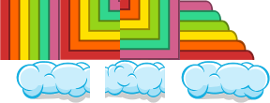
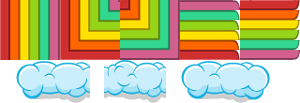
Tiles rendering is improved

diff --git a/source/backgrounds/TileBackground.js b/source/backgrounds/TileBackground.js
@@ -19,35 +19,37 @@ export default class TileBackground extends Background {
     constructor (options) {
         super(options);
         const {images, manager} = this;
-        this.tiles = polarizeTileMatrix(options.tiles);
 
+        this.tiles = polarizeTileMatrix(options.tiles);
         this.sprite = new Sprite(images.tile, manager.getSprite('Tile'));
-        this._setFrame('cloud-edge-flipped', this._transformFrame('cloud-edge', {
+        this.cloudRenderer = options.cloudRenderer;
+
+        this._setFrame('cloud-edge-right', this._transformFrame('cloud-edge-left', {
             scale: [-1, 1]
         }, {}, 90, 43));
         this._setFrame('0', this.sprite.frames.get('cloud-center'));
-        this._setFrame('1', this._transformFrame('tile-corner', {
+        this._setFrame('1', this._transformFrame('tile-corner-left', {
             rotate: [0]
         }));
-        this._setFrame('2', this._transformFrame('tile-corner', {
+        this._setFrame('2', this._transformFrame('tile-corner-left', {
             rotate: [Math.PI / 2]
         }));
-        this._setFrame('3', this._transformFrame('tile-corner', {
+        this._setFrame('3', this._transformFrame('tile-corner-left', {
             rotate: [Math.PI]
         }));
-        this._setFrame('4', this._transformFrame('tile-corner', {
+        this._setFrame('4', this._transformFrame('tile-corner-left', {
             rotate: [-Math.PI / 2]
         }));
-        this._setFrame('1f', this._transformFrame('tile-corner-flipped', {
+        this._setFrame('1f', this._transformFrame('tile-corner-right', {
             scale: [1, 1]
         }));
-        this._setFrame('2f', this._transformFrame('tile-corner-flipped', {
+        this._setFrame('2f', this._transformFrame('tile-corner-right', {
             scale: [-1, 1]
         }));
-        this._setFrame('3f', this._transformFrame('tile-corner-flipped', {
+        this._setFrame('3f', this._transformFrame('tile-corner-right', {
             scale: [-1, -1]
         }));
-        this._setFrame('4f', this._transformFrame('tile-corner-flipped', {
+        this._setFrame('4f', this._transformFrame('tile-corner-right', {
             scale: [-1, 1]
         }));
         this._setFrame('59', this._transformFrame('tile-pipe', {
@@ -60,17 +62,17 @@ export default class TileBackground extends Background {
         }, {
             alphaGradient: true
         }));
-        this._setFrame('6', this._transformFrame('tile-edge', {
+        this._setFrame('6', this._transformFrame('tile-edge-left', {
             scale: [-1, 1]
         }));
-        this._setFrame('7', this._transformFrame('tile-edge', {
+        this._setFrame('7', this._transformFrame('tile-edge-left', {
             scale: [1, 1]
         }));
-        this._setFrame('6f', this._transformFrame('tile-edge', {
-            scale: [-1, -1]
+        this._setFrame('6f', this._transformFrame('tile-edge-right', {
+            scale: [-1, 1]
         }));
-        this._setFrame('7f', this._transformFrame('tile-edge', {
-            scale: [1, -1]
+        this._setFrame('7f', this._transformFrame('tile-edge-right', {
+            scale: [1, 1]
         }));
         this._setFrame('8BEF', this._transformFrame('tile-pipe', {
             scale: [1, 1]
@@ -90,7 +92,7 @@ export default class TileBackground extends Background {
         const indexWidth = getTileIndexByDistance(camera.size.width) + 1;
         const startIndex = getTileIndexByDistance(camera.position.x);
         const endIndex = startIndex + indexWidth;
-        const {tiles} = this;
+        const {tiles, cloudRenderer} = this;
         const tx = (camera.position.x + THOUSAND_TILE_SIZE) % TILE_SIZE;
         const ty = camera.position.y;
 
@@ -106,12 +108,14 @@ export default class TileBackground extends Background {
                 const cloudImage = this.sprite.frames.get(tile.cloudName);
                 context.drawImage(tileImage, x, y);
                 let cloudOffset = (90 - 60) * 0.5;
-                if (tile.cloudName === 'cloud-edge') {
+                if (tile.cloudName === 'cloud-edge-left') {
                     cloudOffset += 15;
-                } else if (tile.cloudName === 'cloud-edge-flipped') {
+                } else if (tile.cloudName === 'cloud-edge-right') {
                     cloudOffset -= 15;
                 }
-                cloudImage && context.drawImage(cloudImage, x - cloudOffset, y - 20);
+                cloudImage && cloudRenderer.renderAsync((context) => {
+                    context.drawImage(cloudImage, x - cloudOffset - tx, y - 20 - ty);
+                });
 
                 if (DEBUG_TILE_IMAGES) {
                     const fontSize = 16;
@@ -123,7 +127,6 @@ export default class TileBackground extends Background {
             });
         }
 
-        context.translate(tx, ty);
         context.restore();
     }
 

diff --git a/source/utils/polarizeTileMatrix.js b/source/utils/polarizeTileMatrix.js
@@ -1,5 +1,11 @@
 let uniquePathId = 0;
 
+const DEBUG_MODE = false;
+const DEBUG_FROM_X = 1;
+const DEBUG_TO_X = 10;
+const DEBUG_FROM_Y = 0;
+const DEBUG_TO_Y = 6;
+
 class TileEnvironment extends Map {
     constructor (tile, {top, right, bottom, left}) {
         super();
@@ -162,6 +168,17 @@ export default function polarizeTileMatrix (matrix) {
 }
 
 function findPath (matrix, xIndex, yIndex, pathId, angle) {
+    const debug = DEBUG_MODE &&
+        xIndex > DEBUG_FROM_X &&
+        xIndex < DEBUG_TO_X &&
+        yIndex > DEBUG_FROM_Y &&
+        yIndex < DEBUG_TO_Y;
+
+    // eslint-disable-next-line
+    const log = function () {
+        debug && console.log(...arguments);
+    };
+
     const tile = matrix.getElement(xIndex, yIndex);
     if (!tile || tile.pathId) {
         return;
@@ -193,7 +210,7 @@ function findPath (matrix, xIndex, yIndex, pathId, angle) {
         } else {
             imageName = filteredEnvironment.has('right') ? '6' : '7';
         }
-        angle = angle || 270;
+        angle = angle || 90;
         imageName = imageName + (angle > 180 ? '' : 'f');
         filteredEnvironment.initialize({imageName, pathId});
         findPath(matrix, xIndex - 1, yIndex, pathId, angle);
@@ -206,15 +223,28 @@ function findPath (matrix, xIndex, yIndex, pathId, angle) {
     }
 
     if (tile.pathId && !filteredEnvironment.has('top')) {
+        let leftCloudEdge = false;
+        let rightCloudEdge = false;
+        if (!fullEnvironment.has('left') ||
+            fullEnvironment.get('left').pathId !== pathId ||
+            (matrix.getElement(xIndex - 1, yIndex - 1) || {}).pathId === pathId) {
+            leftCloudEdge = true;
+        }
+        if (!fullEnvironment.has('right') ||
+            fullEnvironment.get('right').pathId !== pathId ||
+            (matrix.getElement(xIndex + 1, yIndex - 1) || {}).pathId === pathId) {
+            rightCloudEdge = true;
+        }
+
         tile.cloudName = 'cloud';
-        if (!fullEnvironment.hasNotCorner('left') && !fullEnvironment.hasNotCorner('right')) {
+        if (leftCloudEdge && rightCloudEdge) {
             tile.cloudName += '-center';
-        } else if (fullEnvironment.hasNotCorner('left') && fullEnvironment.hasNotCorner('right')) {
+        } else if (leftCloudEdge) {
+            tile.cloudName += '-edge-left';
+        } else if (rightCloudEdge) {
+            tile.cloudName += '-edge-right';
+        } else {
             tile.cloudName += '-pipe';
-        } else if (fullEnvironment.hasNotCorner('right')) {
-            tile.cloudName += '-edge';
-        } else if (fullEnvironment.hasNotCorner('left')) {
-            tile.cloudName += '-edge-flipped';
         }
     }
 }

diff --git a/source/Level.js b/source/Level.js
@@ -4,6 +4,7 @@ import {
     Vector2
 } from 'engine/math.js';
 
+import CloudBackground from 'backgrounds/CloudBackground.js';
 import TileBackground from 'backgrounds/TileBackground.js';
 import LavaBackground from 'backgrounds/LavaBackground.js';
 import PlayerEntity from 'entities/PlayerEntity.js';
@@ -217,11 +218,20 @@ export default class Level {
         return background;
     }
 
+    _initCloudBackground () {
+        const {manager, scene} = this;
+        const background = new CloudBackground({manager});
+        scene.add(background);
+        return background;
+    }
+
     _initTileBackground () {
         const {manager, scene} = this;
+        const cloudRenderer = this._initCloudBackground(...arguments);
         const background = new TileBackground({
             manager,
-            tiles: this._tileMatrix
+            tiles: this._tileMatrix,
+            cloudRenderer
         });
         scene.add(background);
         return background;

diff --git a/source/backgrounds/CloudBackground.js b/source/backgrounds/CloudBackground.js
@@ -1,0 +1,25 @@
+import Background from 'backgrounds/Background.js';
+import {
+    INDEX_CLOUD_BACKGROUND
+} from 'constants.js';
+
+export default class CloudBackground extends Background {
+    get index () {
+        return INDEX_CLOUD_BACKGROUND;
+    }
+
+    constructor (options) {
+        super(options);
+        this._queue = [];
+    }
+
+    render (context, camera) {
+        const queue = this._queue;
+        queue.forEach(task => task(context));
+        this._queue = [];
+    }
+
+    renderAsync (task) {
+        this._queue.push(task);
+    }
+}

diff --git a/source/backgrounds/LavaBackground.js b/source/backgrounds/LavaBackground.js
@@ -31,8 +31,8 @@ export default class LavaBackground extends Background {
         this._phase += 0.02;
 
         const bounds = this._bounds;
-        const tx = camera.position.x;
-        const ty = camera.position.y;
+        const tx = camera.position.x | 0;
+        const ty = camera.position.y | 0;
         const {width} = camera.size;
 
         context.save();
@@ -56,7 +56,6 @@ export default class LavaBackground extends Background {
             context.fill();
         }
 
-        context.translate(tx, ty);
         context.restore();
     }
 

diff --git a/source/backgrounds/ParallaxBackground.js b/source/backgrounds/ParallaxBackground.js
@@ -50,7 +50,7 @@ export default class ParallaxBackground extends Background {
                     y: height - naturalHeight - (camera.position.y * i - halfHeight) * PARALLAX_SHIFT_Y,
                     i
                 });
-                context.drawImage(image, x % naturalWidth + r * naturalWidth, y);
+                context.drawImage(image, x % naturalWidth + r * naturalWidth | 0, y | 0);
             }
         }
     }

diff --git a/source/entities/RopeEntity.js b/source/entities/RopeEntity.js
@@ -27,7 +27,7 @@ export default class RopeEntity extends Entity {
         context.lineWidth = 3;
         context.beginPath();
         points.forEach((point) => {
-            context.lineTo(point.x - this.position.x, point.y - this.position.y);
+            context.lineTo(point.x - this.position.x | 0, point.y - this.position.y | 0);
         });
         context.stroke();
         context.restore();

diff --git a/source/constants.js b/source/constants.js
@@ -24,8 +24,9 @@ export const SCORE_FRUIT_FLY_DEATH = 100;
 export const SCORE_GAS_MUSHROOM_DEATH = 100;
 
 export const INDEX_STATIC_BACKGROUND = -1000;
+export const INDEX_TILE_BACKGROUND = -500;
 export const INDEX_RENDERABLE = 0;
-export const INDEX_TILE_BACKGROUND = 500;
+export const INDEX_CLOUD_BACKGROUND = 500;
 export const INDEX_CLOUD = 600;
 export const INDEX_LAVA_BACKGROUND = 1000;
 

diff --git a/source/engine/Renderer.js b/source/engine/Renderer.js
@@ -15,7 +15,7 @@ export default class Renderer {
             let y = position.y - camera.position.y;
 
             context.save();
-            context.translate(x - offset.x, y - offset.y);
+            context.translate(x - offset.x | 0, y - offset.y | 0);
             context.rotate(angle);
             context.scale(scale.x, scale.y);
             context.globalAlpha = opacity;

diff --git a/source/entities/HorLaserEntity.js b/source/entities/HorLaserEntity.js
@@ -33,7 +33,7 @@ export default class HorLaserEntity extends StaticEntity {
             context.beginPath();
             context.fillRect(
                 -HALF_TILE_SIZE,
-                -HALF_TILE_SIZE + 0.5 * TILE_SIZE - (5 - i),
+                -HALF_TILE_SIZE + HALF_TILE_SIZE - (5 - i),
                 TILE_SIZE,
                 (5 - i) * 2
             );

diff --git a/source/engine/Sprite.js b/source/engine/Sprite.js
@@ -24,7 +24,7 @@ export default class Sprite {
 
     render (name, context, x=0, y=0) {
         const frame = this.frames.get(name);
-        context.drawImage(frame, x, y);
+        context.drawImage(frame, x | 0, y | 0);
     }
 
     _initOptions (imageNode, spriteDescription={}) {

diff --git a/source/levels/0.js b/source/levels/0.js
@@ -5,6 +5,10 @@ export default {
     },
     tiles: [{
         ranges: [
+            [3, 6, 4, 5],
+            [3, 4, 3, 4],
+            [3, 6, 2, 3],
+            [5, 6, 3, 4],
             [0, 1, 3, 7],
             [1, 11, 6, 7],
             [14, 20, 6, 7],
